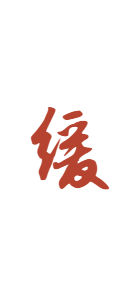
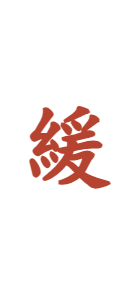
小程序: 档位字改繁体楷书 + 每日小签更名疗愈祈愿(用户指定)
- 档位五字改繁体 旺/順/平/緩/守:志莽行书与华文行楷均不含 順緩 繁体字形
  (渲染掉衬线兜底,对照图确认),换 cwTeX Q Kai(开源繁体楷书,GPL+font
  exception)统一重渲五张;字体 14MB 不入库,qianchar.html 注释留下载地址;
  BANDS/BAND_COLOR/qi 映射全链路同步繁体
- 每日小签 → 疗愈祈愿:页题/入口卡(方章"签"→"愿")/副题("求一句安心话")/
  分享语,与审核备注"情绪疗愈"口径进一步对齐

Changed region(s): [[0.2, 0.33, 0.8, 0.66]]

diff --git a/miniprogram/pages/fortune-chart/fortune-chart.js b/miniprogram/pages/fortune-chart/fortune-chart.js
@@ -4,10 +4,10 @@ const klineCache = require('../../utils/kline-cache.js');
 const daily = require('../../utils/daily-fortune.js');
 const reading = require('../../utils/kline-reading.js');
 
-const BAND_COLOR = { 旺: '#b5432f', 顺: '#c96f2f', 平: '#8a8272', 缓: '#3f7050', 守: '#2f5540' };
+const BAND_COLOR = { 旺: '#b5432f', 順: '#c96f2f', 平: '#8a8272', 緩: '#3f7050', 守: '#2f5540' };
 const GAN_WX = { 甲: '木', 乙: '木', 丙: '火', 丁: '火', 戊: '土', 己: '土', 庚: '金', 辛: '金', 壬: '水', 癸: '水' };
 const ZHI_WX = { 子: '水', 丑: '土', 寅: '木', 卯: '木', 辰: '土', 巳: '火', 午: '火', 未: '土', 申: '金', 酉: '金', 戌: '土', 亥: '水' };
-const bandOf = (s) => (s >= 68 ? '旺' : s >= 56 ? '顺' : s >= 44 ? '平' : s >= 32 ? '缓' : '守');
+const bandOf = (s) => (s >= 68 ? '旺' : s >= 56 ? '順' : s >= 44 ? '平' : s >= 32 ? '緩' : '守');
 
 Page({
   data: { mode: 'day', sel: null, natalStr: '', ready: false },
@@ -94,7 +94,7 @@ Page({
     const ys = this.k.years;
     const yr = ys[i];
     const r = reading.yearText(yr, this.k.natal, i > 0 ? ys[i - 1] : null);
-    const band = yr.score >= 67 ? '佳' : yr.score >= 45 ? '平' : '缓';
+    const band = yr.score >= 67 ? '佳' : yr.score >= 45 ? '平' : '緩';
     this.setData({
       sel: {
         kind: 'year', title: `${yr.year} ${yr.liunianGanZhi}年 · ${yr.age}岁`, score: Math.round(yr.score),

diff --git a/miniprogram/pages/fortune/fortune.js b/miniprogram/pages/fortune/fortune.js
@@ -2,7 +2,7 @@ const profile = require('../../utils/profile.js');
 const klineCache = require('../../utils/kline-cache.js');
 const daily = require('../../utils/daily-fortune.js');
 
-const BAND_COLOR = { 旺: '#b5432f', 顺: '#c96f2f', 平: '#8a8272', 缓: '#3f7050', 守: '#2f5540' };
+const BAND_COLOR = { 旺: '#b5432f', 順: '#c96f2f', 平: '#8a8272', 緩: '#3f7050', 守: '#2f5540' };
 
 Page({
   data: {
@@ -35,7 +35,7 @@ Page({
       const key = `${this.person.date}|${this.person.ti}|${this.person.gi}|${d.getFullYear()}-${d.getMonth() + 1}-${d.getDate()}|v2`;
       if (c && c.key === key && c.dash && c.dash.main) colors = { main: c.dash.main, accent: c.dash.accent || [] };
     } catch (e) { /* 没有就不显示 */ }
-    const qi = { 旺: 0, 顺: 1, 平: 2, 缓: 3, 守: 4 }[today.band];
+    const qi = { 旺: 0, 順: 1, 平: 2, 緩: 3, 守: 4 }[today.band];
     this.setData({ hasProfile: true, today, qi, bandColor: BAND_COLOR[today.band], colors },
       () => this.drawThumbs(k));
   },

diff --git a/miniprogram/brand/qianchar.html b/miniprogram/brand/qianchar.html
@@ -1,8 +1,9 @@
-<!doctype html><html><head><meta charset="utf-8"><style>
+<!doctype html><!-- 档位字用 cwTeX Q Kai(繁体楷书,GPL+font exception):curl -L -o cwTeXQKai-Medium.ttf https://cdn.jsdelivr.net/gh/l10n-tw/cwtex-q-fonts-TTFs/ttf/cwTeXQKai-Medium.ttf --><html><head><meta charset="utf-8"><style>
 @font-face{font-family:"ZMX";src:url("ZhiMangXing-Regular.ttf")}
+@font-face{font-family:"QKai";src:url("cwTeXQKai-Medium.ttf")}
 *{margin:0;padding:0}html,body{overflow:hidden}
 body{width:140px;height:100vh;background:transparent;display:flex;align-items:center;justify-content:center}
-.t{font-family:"ZMX";color:#b5432f;font-size:100px;line-height:1.2}
+.t{font-family:"QKai";font-weight:700;color:#b5432f;font-size:100px;line-height:1.2}
 .t.two{writing-mode:vertical-rl;font-size:96px;letter-spacing:6px}
 </style></head><body><div class="t" id="t"></div>
 <script>

diff --git a/miniprogram/pages/liuren/liuren.js b/miniprogram/pages/liuren/liuren.js
@@ -4,7 +4,7 @@ Page({
   // 默认报数起课:让用户带着问题参与,仪式感和随机性都最好。
   // 时间起课同一时辰(2小时)结果相同是规则本身,界面上要讲清楚,免得用户以为坏了。
   data: { methods: ['报数抽签(推荐)', '以时抽签', '随手一抽'], mi: 0, num: '', r: null },
-  onShareAppMessage() { return { title: '心里有事?来抽一签', path: '/pages/liuren/liuren' }; },
+  onShareAppMessage() { return { title: '有心事?来一支疗愈小签', path: '/pages/liuren/liuren' }; },
   onMethod(e) { this.setData({ mi: +e.detail.value, r: null }); },
   onNum(e) { this.setData({ num: e.detail.value }); },
   // 报数起课同数同日结果相同,"再来一卦"必须换数,所以清空回到引导态

diff --git a/miniprogram/utils/daily-fortune.js b/miniprogram/utils/daily-fortune.js
@@ -26,8 +26,8 @@ const JI_POOL = {
   金: ['硬碰硬', '苛责较真'],
   水: ['优柔寡断', '轻信传言'],
 };
-// 档位用中性字(旺/顺/平/缓/守),避免吉凶断语式表述
-const BANDS = [[68, '旺'], [56, '顺'], [44, '平'], [32, '缓'], [-1, '守']];
+// 档位用中性字(旺/順/平/緩/守,繁体),避免吉凶断语式表述
+const BANDS = [[68, '旺'], [56, '順'], [44, '平'], [32, '緩'], [-1, '守']];
 
 /** natal: klineCache 的 natal(pillars 字符串 + favorable/unfavorableWuxing) */
 const score = (dateObj, natal) => {

diff --git a/miniprogram/brand/qtest.html b/miniprogram/brand/qtest.html
@@ -1,0 +1,1 @@
+<!doctype html><meta charset="utf-8"><body style="margin:0;background:#fff"><div style="font-family:STXingkai;font-size:80px;color:#b5432f">旺順平緩守</div><div style="font-family:KaiTi;font-size:80px;color:#3f7050">旺順平緩守</div><div style="font-family:SimSun;font-size:80px;color:#33302a">旺順平緩守</div></body>
